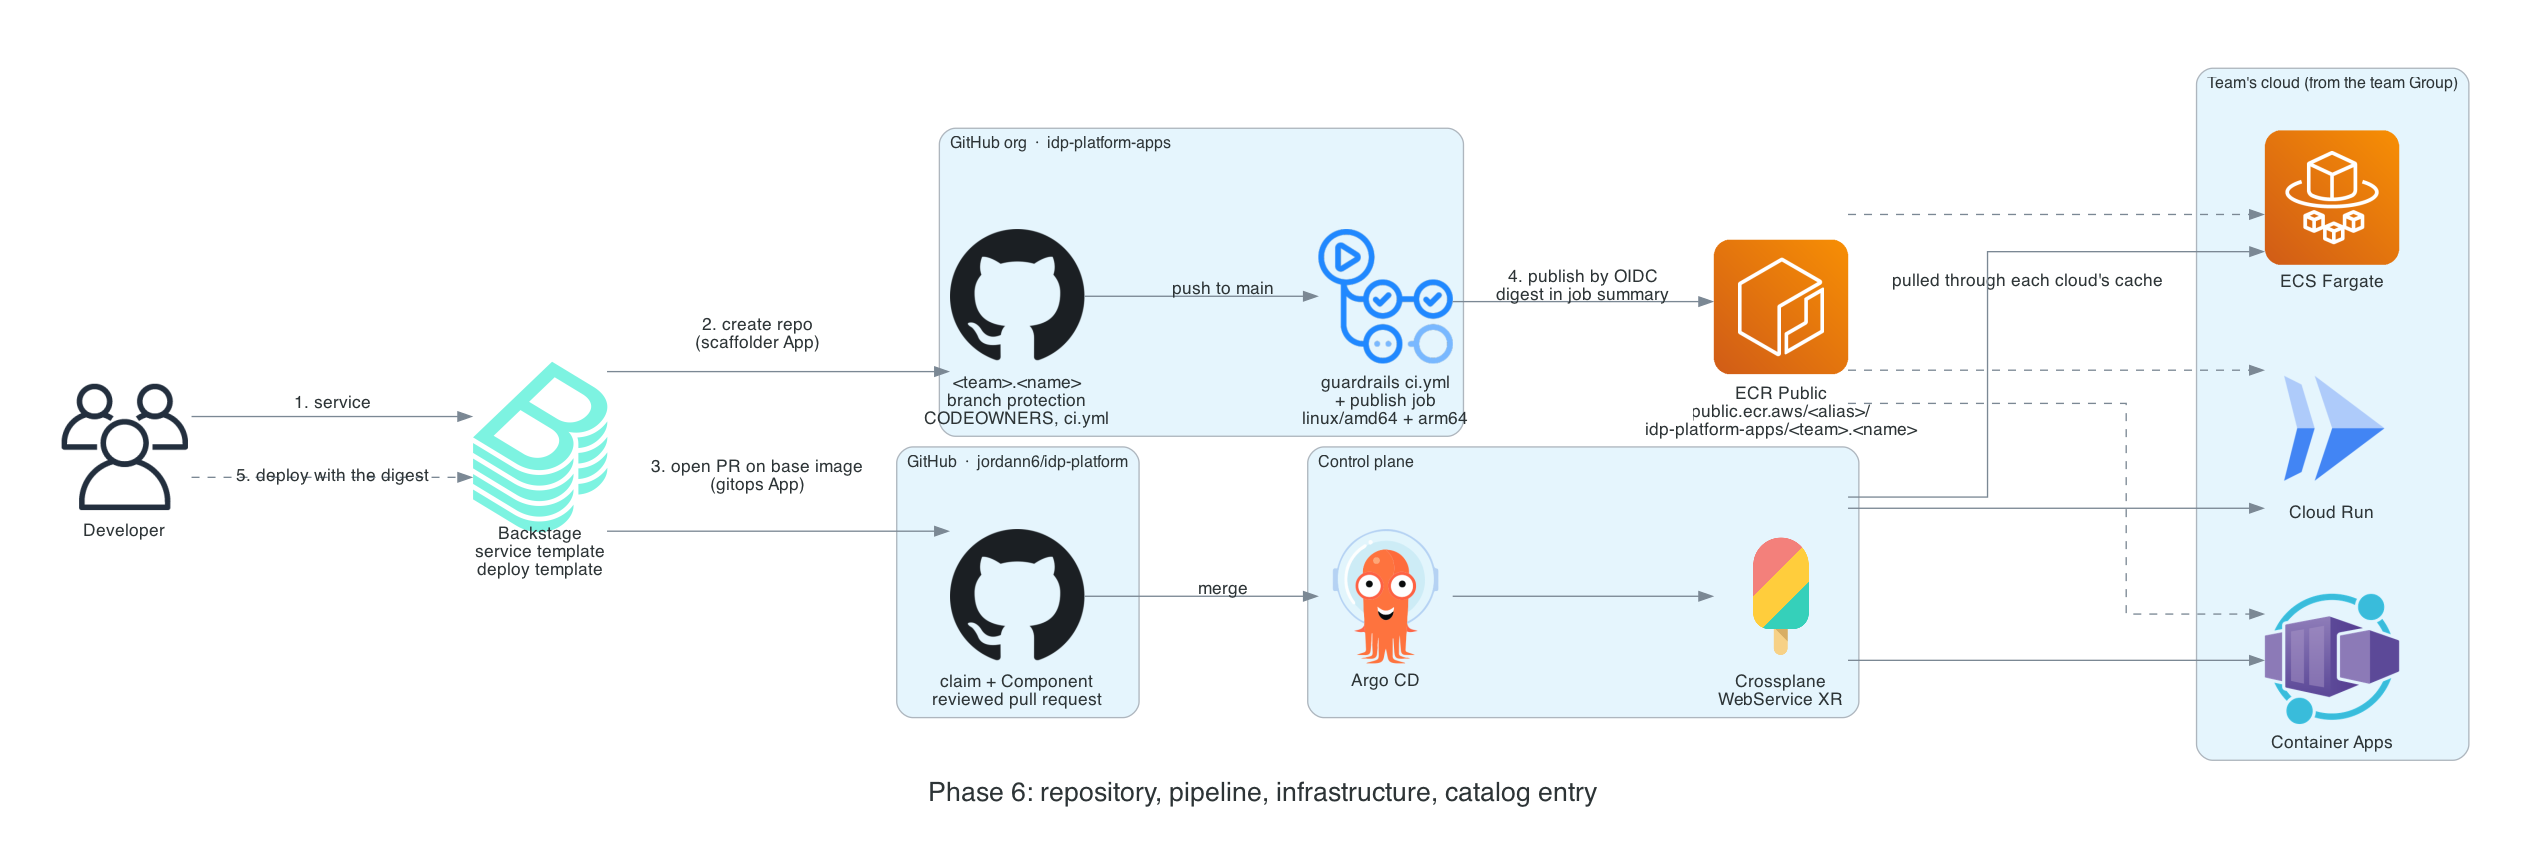
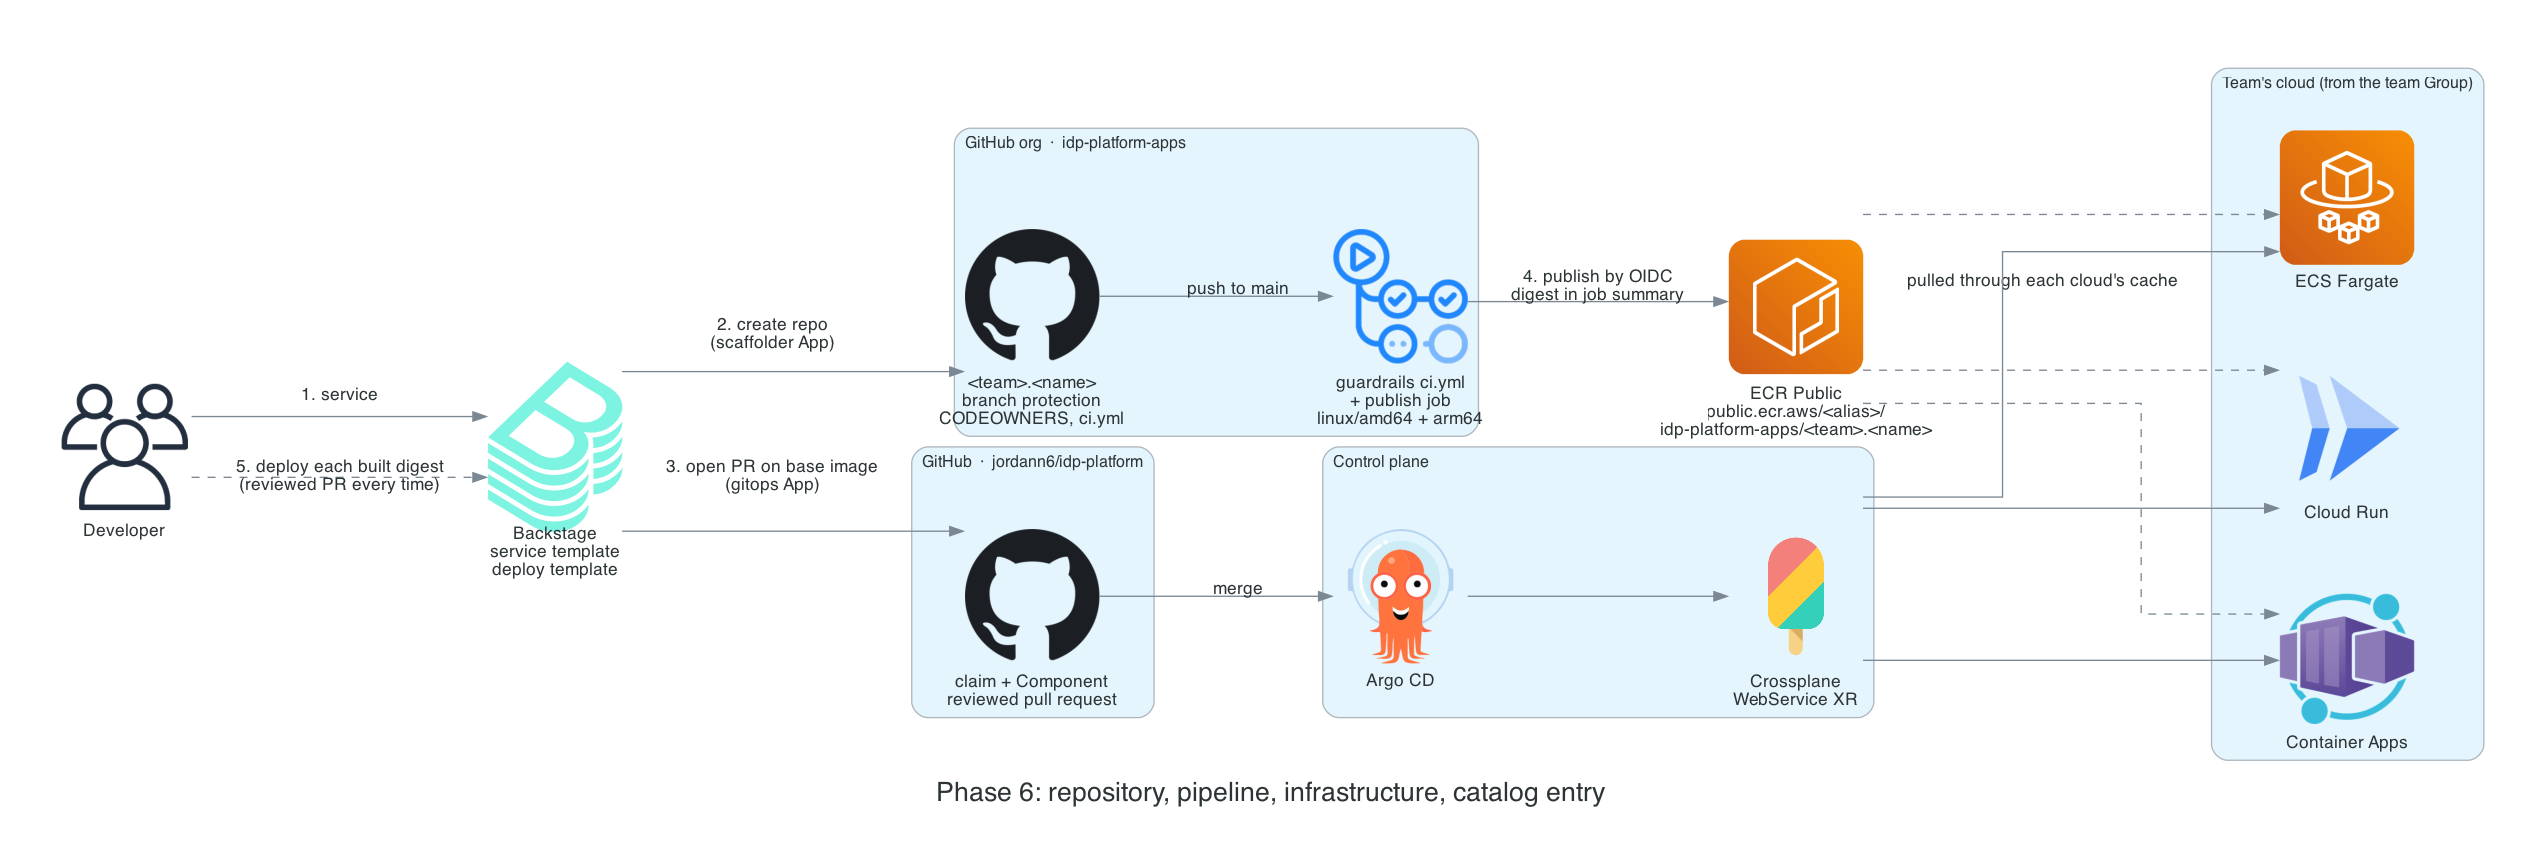
README and scaffolding diagram: repeated deploys, honest readiness, and the leaks the live runs fixed (#92)

diff --git a/diagram.py b/diagram.py
@@ -181,7 +181,7 @@ with Diagram(
     app_repo >> Edge(label="push to main") >> ci
     ci >> Edge(label="4. publish by OIDC\ndigest in job summary") >> ecr_public
     pr >> Edge(label="merge") >> argo >> xp >> runtime
-    dev >> Edge(style="dashed", label="5. deploy with the digest") >> portal
+    dev >> Edge(style="dashed", label="5. deploy each built digest\n(reviewed PR every time)") >> portal
     ecr_public >> Edge(style="dashed", label="pulled through each cloud's cache") >> runtime[0]
     ecr_public >> Edge(style="dashed") >> runtime[1]
     ecr_public >> Edge(style="dashed") >> runtime[2]

diff --git a/README.md b/README.md
@@ -23,7 +23,7 @@ Every design decision and every place the abstraction leaks is recorded in [DECI
 | Image cache | ECR pull-through cache | Artifact Registry remote repository | ACR cache rule |
 | Region `us-east` | `us-east-1` | `us-east1` | `eastus2` (ADR-0003) |
 
-A `Database` returns a Secret named `<name>-conn` with exactly six keys (`host`, `port`, `username`, `password`, `dbname`, `sslmode`) on every cloud, and the XR is Ready only once that Secret is complete (ADR-0016). A `WebService` reports `status.url`, the HTTPS URL, whichever cloud produced it.
+A `Database` returns a Secret named `<name>-conn` with exactly six keys (`host`, `port`, `username`, `password`, `dbname`, `sslmode`) on every cloud, and the XR is Ready only once that Secret is complete (ADR-0016). A `WebService` reports `status.url`, the HTTPS URL, whichever cloud produced it. Changing its image or size rolls out on every cloud: Cloud Run and Container Apps create a new revision; on AWS each change composes a new ECS task definition revision, the service moves to it, and the old one is deregistered. The XR reports Ready False from the moment a change is merged until the runtime is on it, so a deploy in progress never reads as done (ADR-0022).
 
 The XRDs expose intent only: t-shirt sizes (`small`, `medium`, `large`), a platform region, `environment`, `owner`, and `costCenter`, plus `image` (digest pinned), `port`, `healthPath`, `maxInstances`, `visibility` (`internal` or `public`), and `env` for web services. Cloud SKU names, subnets, security groups, and load balancers never appear in the API.
 
@@ -36,7 +36,7 @@ The `service` template (ADR-0024) does four things in one run:
 1. Creates `idp-platform-apps/<team>.<name>`, a public repository in a dedicated GitHub organization, with branch protection, two required checks, CODEOWNERS from the team's members, and secret scanning push protection.
 2. Pushes a skeleton whose CI calls the shared guardrails workflow (gitleaks, Trivy) pinned by commit SHA. On `main` it builds `linux/amd64` and `linux/arm64` and publishes the index to ECR Public through GitHub OIDC.
 3. Opens a pull request on this repository with the `WebService` claim on a known-good base image and its catalog Component, which links back to the repository.
-4. After that merges, the `deploy` template moves the service onto the digest its own pipeline built, through one more reviewed pull request.
+4. After that merges, the `deploy` template moves the service onto the digest its own pipeline built, through one more reviewed pull request. Every later build is promoted the same way, and rolling back is the same template with the previous digest.
 
 ## Identity
 
@@ -82,7 +82,15 @@ The Backstage image is the platform's own build of `backstage/app`: `make backst
 
 ## Status
 
-All five platform phases and Phase 6 (repository and pipeline scaffolding) are complete and were proven live through GitOps on all three clouds, then torn down. Standing cost between demos is about $0.50 a month (the Azure private DNS zone).
+All five platform phases and Phase 6 (repository and pipeline scaffolding) are complete and were proven live through GitOps on all three clouds, then torn down. On AWS, one service took three image changes and a size change in a row, each rolling out with the managed resources in sync throughout, and deleting a claim by git removes every cloud resource with no manual step. Standing cost between demos is about $0.50 a month (the Azure private DNS zone).
+
+Leaks the live runs found and fixed, each with its cause in DECISIONS.md:
+
+- A refused update kept the old state live: a service switched to internal on AWS stayed reachable while reporting Ready. Compositions now fail closed, and admission refuses the request (ADR-0022, ADR-0023).
+- An ECS task definition revision cannot be edited, so a new image never reached AWS while the XR said Ready. The task definition is now named by a hash of its contents (ADR-0022).
+- Cross-provider and in-list reference selectors broke on AWS (an unresolved target group, a Service stuck out of sync after a deploy, a listener rule that could not be deleted). Every reference in the AWS Composition is now an ARN read from the observed resource (ADR-0022).
+- Composed-resource policies admitted and denied correctly but produced no PolicyReports, because the reports controller could not resolve a wildcard API version (ADR-0023).
+- The IAM simulator allowed a bearer token condition the real ECR Public login does not satisfy (ADR-0024).
 
 Known gaps, each recorded with its cause in DECISIONS.md:
 
